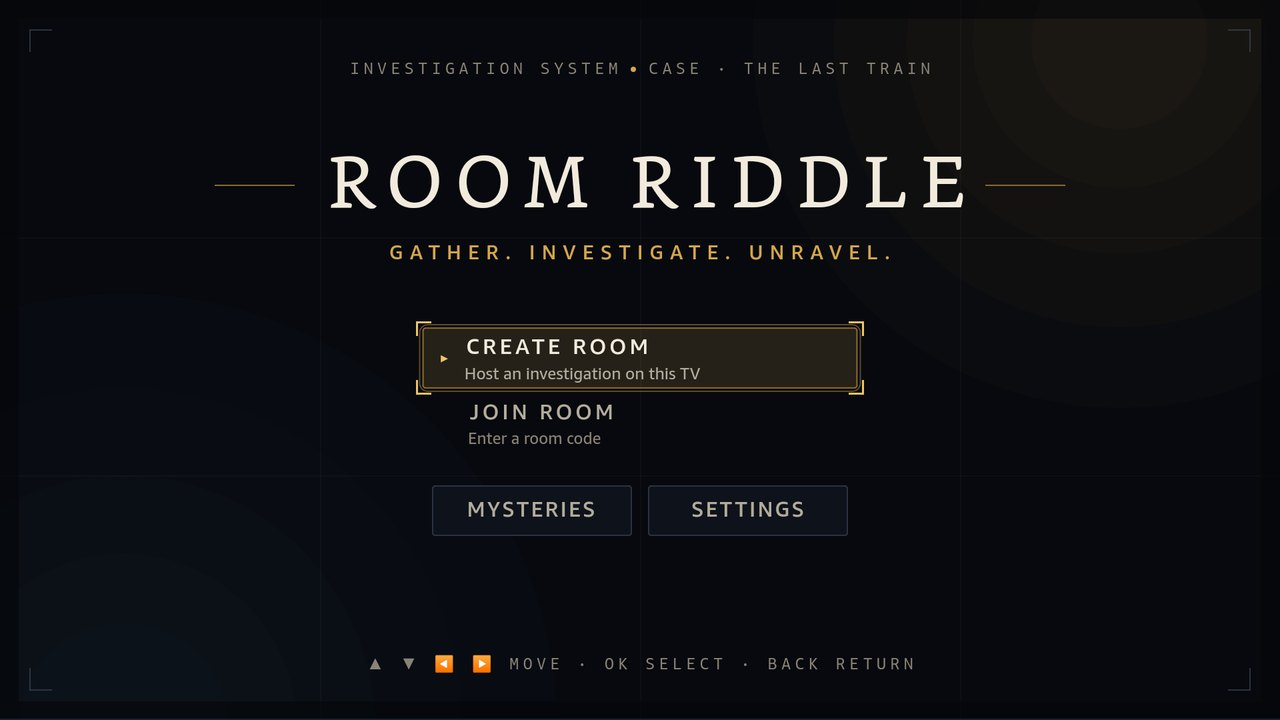
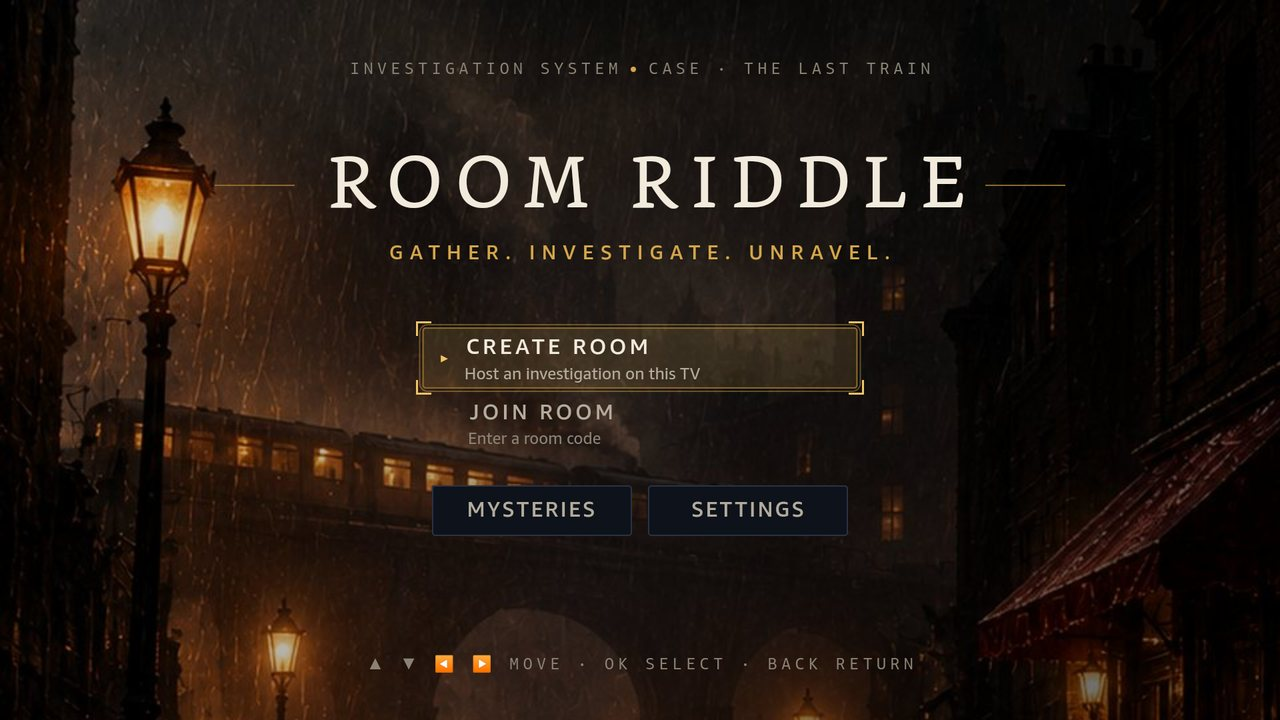
docs: README shows the painted game; Day 4 changelog and credits
- New TV screenshots from the Vega Virtual Device: home, library, arrival,
  platform, evidence close-up, Detective Grace, torn ticket, corridor,
  signal box, and Voss's portrait reply in the hero image.
- 'Inside The Last Train' gallery; placeholder-art note removed; status,
  test counts (80 TV), CREDITS and CHANGELOG updated.

diff --git a/README.md b/README.md
@@ -34,7 +34,7 @@
 
 <p align="center">
   <img src="docs/images/hero-tv-phone.jpg" alt="A suspect answers on the TV while the player questions him from a phone" width="100%" />
-  <br/><sub>Asking Inspector Voss a question from a phone. He answers on the TV, in character and in his own voice.</sub>
+  <br/><sub>Asking Inspector Voss a question from a phone. He answers on the TV, in character, in his own voice, with his painted portrait.</sub>
 </p>
 
 1. **Open a room on the TV.** It shows a 4-digit code and a QR code.
@@ -48,8 +48,21 @@
 |:---:|:---:|
 | <img src="docs/images/tv-home.jpg" alt="Home screen" /> | <img src="docs/images/tv-library.jpg" alt="The case library" /> |
 | **Home:** create or join a room with the remote | **Library:** five complete cases |
-| <img src="docs/images/tv-lobby.jpg" alt="Room lobby with QR code" /> | <img src="docs/images/tv-station.jpg" alt="The 2.5D station scene" /> |
-| **Lobby:** scan the QR code, see who's in | **The world:** a layered 2.5D scene you explore with the remote |
+| <img src="docs/images/tv-lobby.jpg" alt="Room lobby with QR code" /> | <img src="docs/images/tv-arrival.jpg" alt="The Northern Star arriving at Harrow Cross" /> |
+| **Lobby:** scan the QR code, see who's in | **Arrival:** the Northern Star pulls in through the rain |
+
+### Inside The Last Train
+
+Painted 2.5D scenes: depth layers move with the camera, rain and steam play over the art, and every clue object sits where it's painted.
+
+| | |
+|:---:|:---:|
+| <img src="docs/images/tv-station.jpg" alt="Platform two, explorable with the remote" /> | <img src="docs/images/tv-clue.jpg" alt="Evidence card with a painted close-up" /> |
+| **Platform two:** focus objects with the remote | **Evidence:** every clue has its painted close-up |
+| <img src="docs/images/tv-vestibule.jpg" alt="Detective Grace in the carriage doorway" /> | <img src="docs/images/tv-ticket.jpg" alt="The torn ticket beside the train" /> |
+| **Detective Grace** narrates and reacts to what you find | **On the platform:** a torn ticket in a puddle |
+| <img src="docs/images/tv-corridor.jpg" alt="The sleeper corridor of carriage C" /> | <img src="docs/images/tv-signal-box.jpg" alt="The signal box at two minutes to midnight" /> |
+| **Carriage C:** the sleeper corridor | **The signal box:** two minutes to midnight |
 
 ### Your phone is your notebook
 
@@ -57,8 +70,6 @@
   <img src="docs/images/phones.jpg" alt="Phone screens: join, scene evidence, suspect questioning, puzzle with hints" width="100%" />
   <br/><sub>Join in seconds · examine evidence · question suspects · solve puzzles with three-step hints</sub>
 </p>
-
-> **Art note:** the TV scenes in these screenshots use the built-in placeholder art. The painted art pass (illustrated plates, character portraits, video loops) goes in through the asset system without code changes; see [Status](#-status).
 
 ---
 
@@ -141,7 +152,7 @@ npm run serve          # build the phone app and start the server on :4000
 **TV app** (inside Ubuntu or WSL2 with the Vega SDK):
 
 ```bash
-bash apps/tv/scripts/wsl-check.sh      # typecheck + lint + 75 Jest tests
+bash apps/tv/scripts/wsl-check.sh      # typecheck + lint + 80 Jest tests
 bash apps/tv/scripts/wsl-build.sh      # build the .vpkg
 bash apps/tv/scripts/wsl-install.sh    # install and launch on the Vega Virtual Device
 ```
@@ -214,7 +225,7 @@ The full technical reference is in **[docs/system-design.md](docs/system-design.
 
 ## ✦ Quality
 
-- **About 320 automated tests:** 58 engine, 22 content, 52 scene, 19 client, 4 UI tokens, 78 server, 11 phone and 75 TV.
+- **About 325 automated tests:** 58 engine, 22 content, 52 scene, 19 client, 4 UI tokens, 78 server, 11 phone and 80 TV.
 - **Every case is played to the end automatically.** Content validation fails the build on unreachable scenes, broken references, puzzles that need clues from later scenes, and spoilers that could never unlock.
 - **Spoiler-attack tests** run against the AI guard and the prompt builder.
 - **Scripted device QA:** the Vega Virtual Device is driven with remote key presses and screenshots, with an audio trace sink.
@@ -231,7 +242,8 @@ The full technical reference is in **[docs/system-design.md](docs/system-design.
 | Phone app: Scene, Evidence and Question tabs | ✅ Done, tested |
 | TV app: screens, lobby, settings, library, 2.5D world, audio | ✅ Done, verified on the Vega Virtual Device |
 | AI suspect questioning with voices on the TV | ✅ Done, verified on the Vega Virtual Device |
-| Painted art, video loops and final audio | 🎨 In progress (assets in production) |
+| Painted art for The Last Train, portraits, clue close-ups, menu key art | ✅ Done, verified on the Vega Virtual Device |
+| Art for the other four cases, video loops, final audio | 🎨 In progress |
 | UI redesign to the final art direction | 🎨 In progress |
 | AI hints and narrator | 🔜 Next |
 | Validation on Fire TV Stick hardware | 🔜 Next |

diff --git a/CHANGELOG.md b/CHANGELOG.md
@@ -2,7 +2,14 @@
 
 All notable changes, newest first. The project follows [Conventional Commits](https://www.conventionalcommits.org/); see `git log` for every commit.
 
-## [Unreleased]: public release prep
+## 2026-10-13: Painted art (Day 4)
+- The Last Train is painted: 28 world assets (sky to signal box, the train, Detective Grace, every clue object), placed to line up with what's painted.
+- Clue clocks keep exact procedural hands over the painted dials (new manifest `overlay`).
+- Evidence cards show painted close-ups; the speech bubble shows painted portraits, with a "pressed" expression when shown evidence.
+- Home and library key art; case cards with painted headers.
+- Fix: a lightning flash cut short no longer leaves a grey veil.
+
+## 2026-10-13: Public release
 - **Brand:** the app is now "Room Riddle", with a launcher icon on the TV and a favicon and web manifest on the phone.
 - **Docs:** showcase README with screenshots; technical reference moved to `docs/system-design.md`; contributing guide, code of conduct, security policy, credits, `.env.example`, CI and issue/PR templates.
 

diff --git a/CREDITS.md b/CREDITS.md
@@ -4,7 +4,7 @@
 
 ## Art
 - App icon, banner and concept art: AI-assisted illustration, art-directed and edited by the author. Released with the project under the MIT licence.
-- TV scenes in the current build use code-drawn placeholder shapes; painted plates and character art are being added through the asset system.
+- The Last Train's scenes, objects, characters, clue close-ups and the menu key art are AI-assisted paintings, art-directed, cut out and edited by the author (`apps/tv/scripts/art/` sizes them for the TV). The other cases still use code-drawn placeholder shapes.
 - Screenshots in `docs/images` were captured from the Vega Virtual Device and a phone browser.
 
 ## Audio

diff --git a/docs/testing.md b/docs/testing.md
@@ -27,7 +27,7 @@ Test files sit next to the code as `*.test.ts`.
 | `server` (rooms, multiplayer, AI prompt/guard/fallback/service, voices, HTTP) | 78 |
 | `player` | 11 |
 | **Root `npm run check`** | **244** |
-| TV, Jest (`apps/tv/scripts/wsl-check.sh`) | 75 |
+| TV, Jest (`apps/tv/scripts/wsl-check.sh`) | 80 |
 
 CI (`.github/workflows/ci.yml`) runs `npm run check` on every push to `main` and every pull request, with `AI_DISABLED=1` and `VOICES_DISABLED=1`, so no keys or network are needed. The AI tests use fake providers. The TV suite needs the Vega SDK and runs locally.
 
